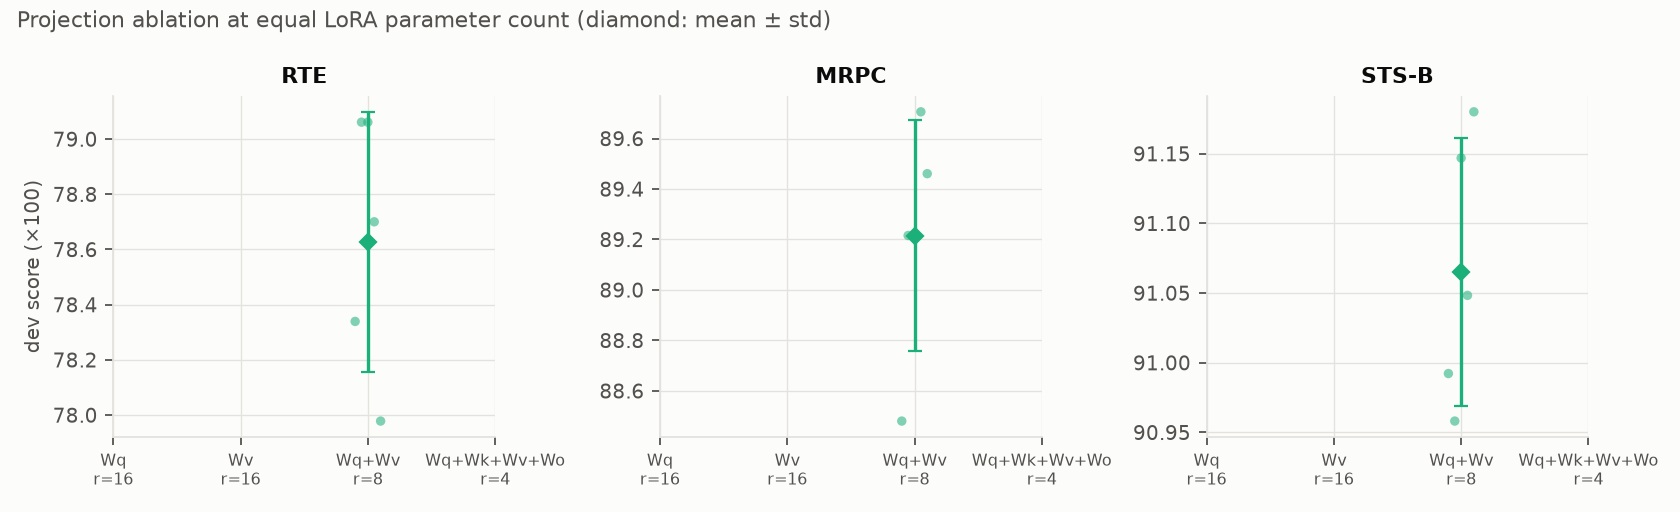
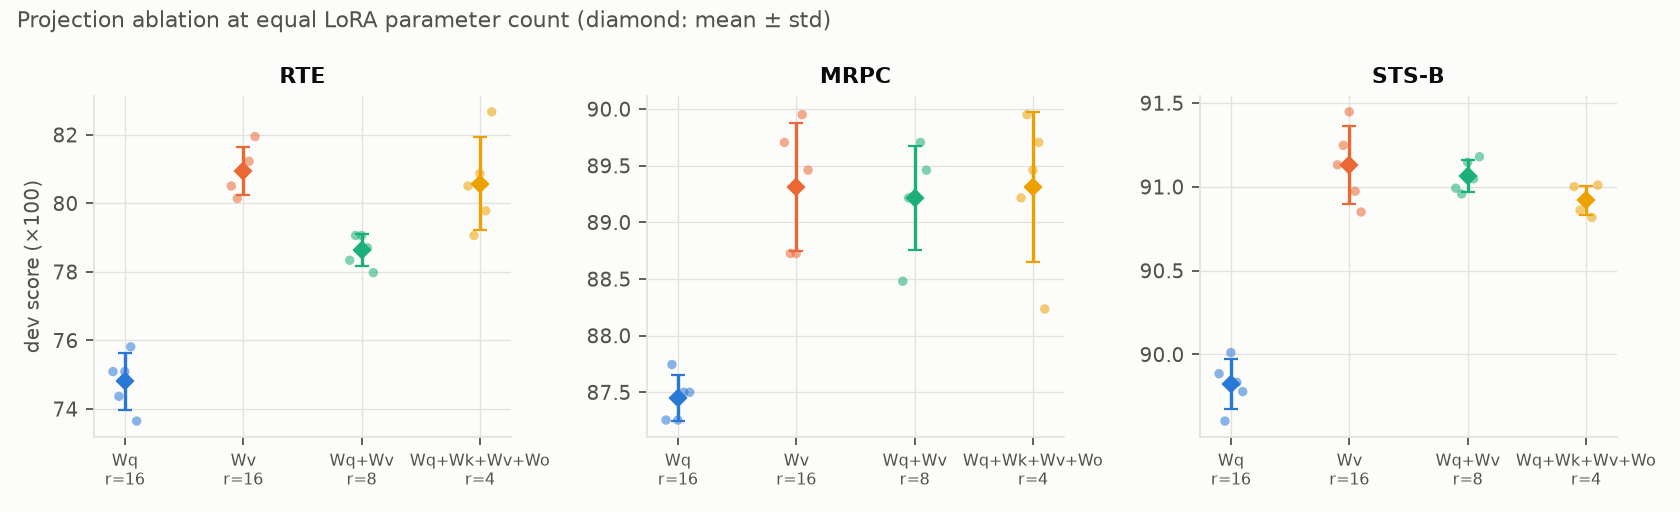
Regenerate figures and README blocks after the projection ablation

diff --git a/README.md b/README.md
@@ -52,7 +52,7 @@ Expected runtime on an RTX 4070 SUPER (estimate from the timing probe, next to t
 | :--- | ---: | ---: | ---: |
 | `make core` | 15.2 | 17.8 | 50 / 50 |
 | `make ablation` (ranks other than the default) | 36.8 | 43.4 | 75 / 75 |
-| `make proj_ablation` (variants other than the default) | 4.7 | 0.0 | 0 / 45 |
+| `make proj_ablation` (variants other than the default) | 4.7 | 4.8 | 45 / 45 |
 <!-- END:runtime -->
 
 ## Method
@@ -182,10 +182,10 @@ Which attention matrices receive LoRA, with the trainable LoRA parameter count h
 <!-- BEGIN:proj -->
 | Adapted matrices | r | LoRA params (excl. head) | RTE: mean ± std | RTE: median | MRPC: mean ± std | MRPC: median | STS-B: mean ± std | STS-B: median |
 | :--- | ---: | ---: | ---: | ---: | ---: | ---: | ---: | ---: |
-| Wq | 16 | – | – | – | – | – | – | – |
-| Wv | 16 | – | – | – | – | – | – | – |
+| Wq | 16 | 294,912 | 74.8 ± 0.8 | 75.1 | 87.5 ± 0.2 | 87.5 | 89.8 ± 0.2 | 89.8 |
+| Wv | 16 | 294,912 | 80.9 ± 0.7 | 80.9 | 89.3 ± 0.6 | 89.5 | 91.1 ± 0.2 | 91.1 |
 | Wq+Wv (paper default) | 8 | 294,912 | 78.6 ± 0.5 | 78.7 | 89.2 ± 0.5 | 89.2 | 91.1 ± 0.1 | 91.0 |
-| Wq+Wk+Wv+Wo | 4 | – | – | – | – | – | – | – |
+| Wq+Wk+Wv+Wo | 4 | 294,912 | 80.6 ± 1.4 | 80.5 | 89.3 ± 0.7 | 89.5 | 90.9 ± 0.1 | 90.9 |
 <!-- END:proj -->
 
 ![Projection ablation](figures/projection_ablation.png)
@@ -286,9 +286,9 @@ Run coverage (planned versus finished; anything not finished is not reported):
 | Rank ablation | STS-B | 20 | 20 | 0 |
 | Rank ablation | CoLA | 20 | 20 | 0 |
 | Rank ablation | SST-2 | 20 | 20 | 0 |
-| Projection ablation | RTE | 20 | 5 | 15 |
-| Projection ablation | MRPC | 20 | 5 | 15 |
-| Projection ablation | STS-B | 20 | 5 | 15 |
+| Projection ablation | RTE | 20 | 20 | 0 |
+| Projection ablation | MRPC | 20 | 20 | 0 |
+| Projection ablation | STS-B | 20 | 20 | 0 |
 
 Runs flagged as diverged (non-finite loss): 0. Permanent failures: 0.
 <!-- END:coverage -->
